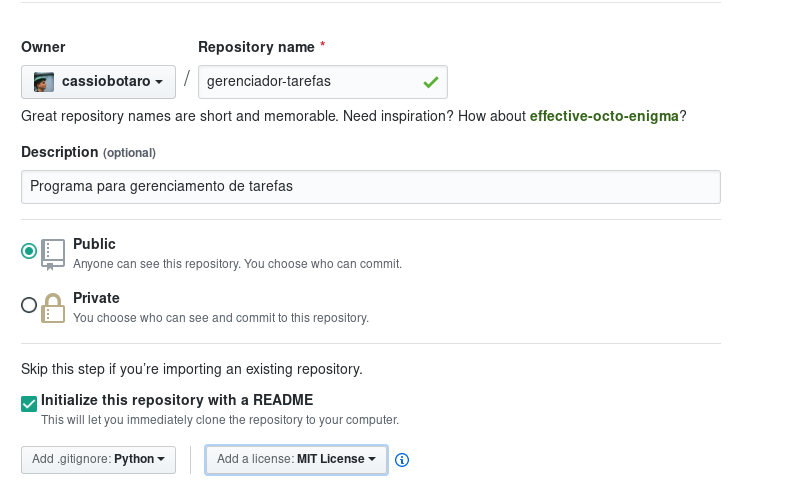
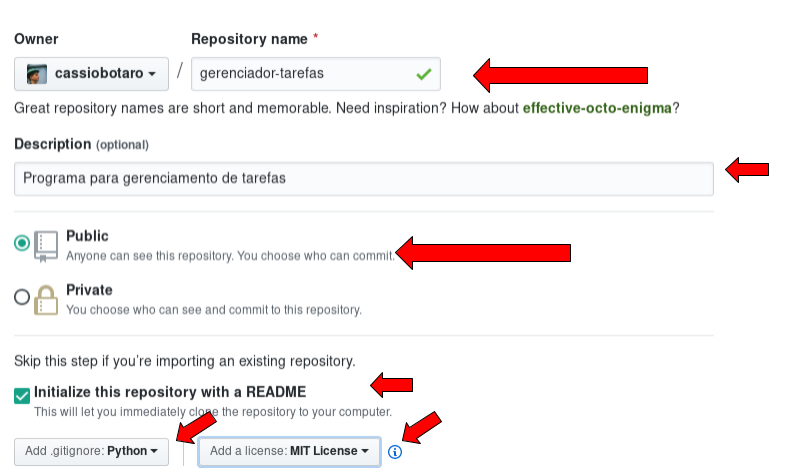
Evidenciando o que deve estar marcado ao criar o projeto.

diff --git a/projeto.md b/projeto.md
@@ -30,6 +30,8 @@ Aperte o botão novo_repositório.
 
 Preencha os campos como visto na imagem abaixo.
 
+:warning: As setas indicam o que deve ser preenchido.
+
 ![novo repositório](imgs/novorepo.png "Novo repositório")
 
 Agora faça um "clone" do seu repositório.
